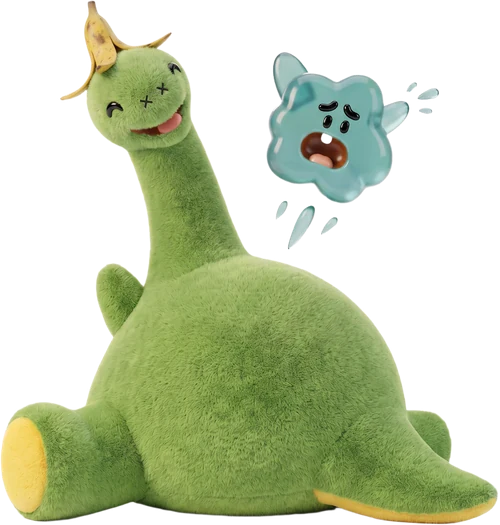
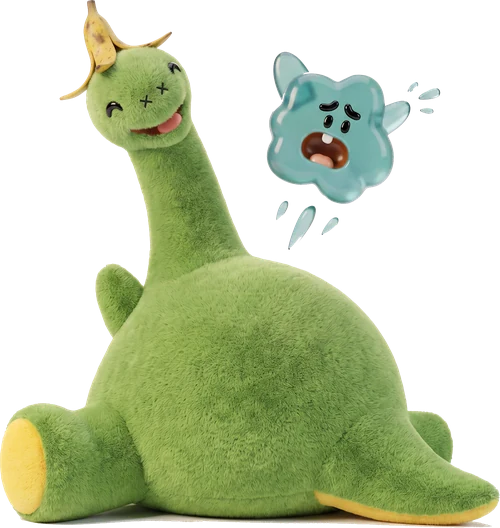
Even out the badge spacing and restore the blob's tooth
The three badges were a row-gap apart, which measured evenly but did not
look it: the hexagons taper to about a quarter of their width at top and
bottom, so a stacked pair reads as much further apart than a side-by-side
one. The lower badge now rides up into that gap by 0.15 of its width,
which puts all three centres 145px apart on a phone against 145 and 145
across the top pair. Bounding boxes overlap doing this, so both layouts
were rendered to a canvas and checked: zero pixels of the hexagons touch.

The dinosaur's companion had its tooth cut away with the background - the
old file carries a 697px transparent hole right at its mouth. Swapped for
the corrected art, which has no enclosed holes above a few stray
antialiasing pixels.

diff --git a/index.html b/index.html
@@ -297,9 +297,12 @@
 
   /* Three guides sit as an inverted triangle: two abreast, the third centred below.
      Same grid drives the first-run picker and the mid-visit one, phone and desktop. */
-  .ob-opts.ob-opts--guides{display:grid;grid-template-columns:repeat(2,auto);
-    gap:6px 18px;justify-content:center;align-items:start;}
-  .ob-opts.ob-opts--guides .ob-guide:nth-child(3){grid-column:1 / -1;justify-self:center;}
+  .ob-opts.ob-opts--guides{--badge:min(34vw,132px);
+    display:grid;grid-template-columns:repeat(2,auto);
+    column-gap:calc(var(--badge) * 0.14);row-gap:0;
+    justify-content:center;align-items:start;}
+  .ob-opts.ob-opts--guides .ob-guide:nth-child(3){grid-column:1 / -1;justify-self:center;
+    margin-top:calc(var(--badge) * -0.150);}
 
   /* Mid-visit guide picker: the page stays visible through it. */
   #guidePicker{position:absolute;inset:0;z-index:160;
@@ -334,7 +337,7 @@
   .ob-guide{padding:0;border:none;background:none;border-radius:0;-webkit-appearance:none;appearance:none;
     display:flex;align-items:center;justify-content:center;cursor:pointer;
     transition:transform .2s var(--ease),filter .2s var(--ease);}
-  .ob-guide img{width:min(34vw,132px);height:auto;display:block;
+  .ob-guide img{width:var(--badge,min(34vw,132px));height:auto;display:block;
     filter:drop-shadow(0 8px 22px rgba(0,0,0,.55));transition:filter .2s var(--ease);}
   .ob-guide:active{transform:scale(.94);}
   .ob-guide:active img{filter:drop-shadow(0 4px 14px rgba(68,190,168,.55));}
